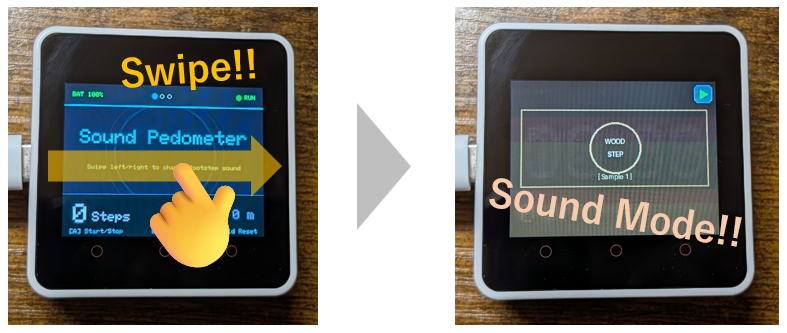
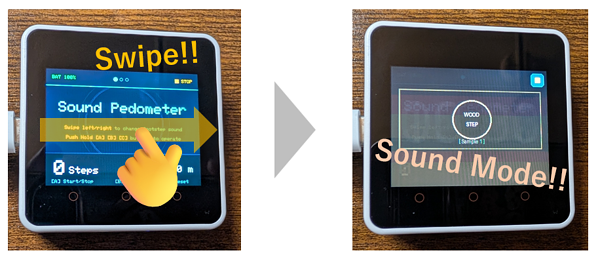
docs: add demo video thumbnail link to README and update asset screenshots

diff --git a/README.md b/README.md
@@ -25,6 +25,14 @@ M5Stack Core2 を使った万歩計（Pedometer）システムです。
 
 ---
 
+## デモ動画
+
+[![デモ動画 (YouTube Shorts)](https://img.youtube.com/vi/RXwJyUS1mBw/hqdefault.jpg)](https://www.youtube.com/shorts/RXwJyUS1mBw)
+
+> 👆 画像をクリックすると YouTube Shorts で実際の動作デモ動画を視聴できます。
+
+---
+
 ## 画面操作・ボタン操作
 
 ### ボタン操作（Core2 下部タッチボタン - 衣服の擦れによる誤動作を防ぐため長押しで動作）
@@ -36,9 +44,12 @@ M5Stack Core2 を使った万歩計（Pedometer）システムです。
 
 ### 画面タッチ操作
 - **メイン画面**: 画面上を左右にスワイプしてテーマ（足音・画像）を切り替え
+
 ![スワイプ](./asset/swipe.png)
+
 - **ログ＆設定画面**:
   - `[-]` / `[+]` ボタンのタップ、またはスライダートラックのドラッグでスピーカー音量（0%〜100%）を調整可能
+
 ![ログ画面](./asset/log-view.png)
 
 ---
